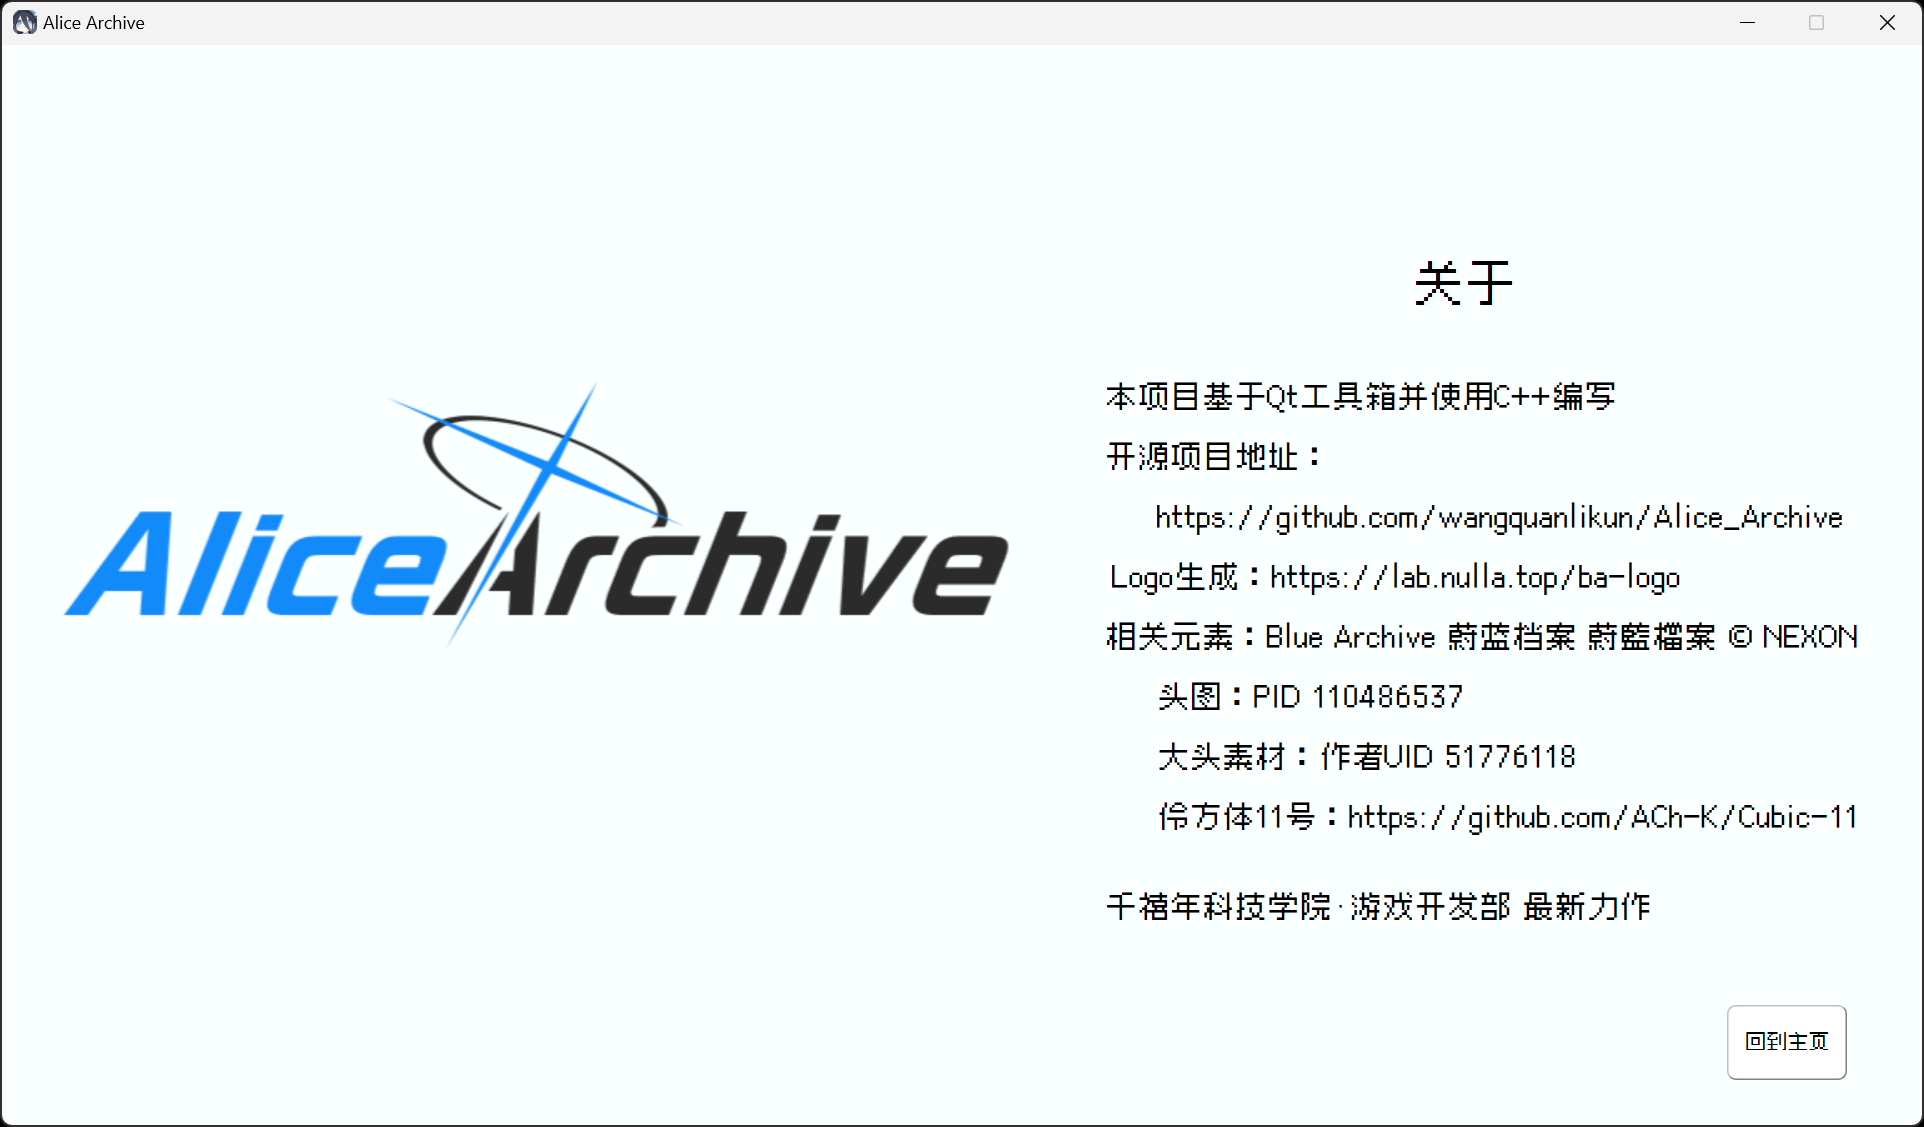
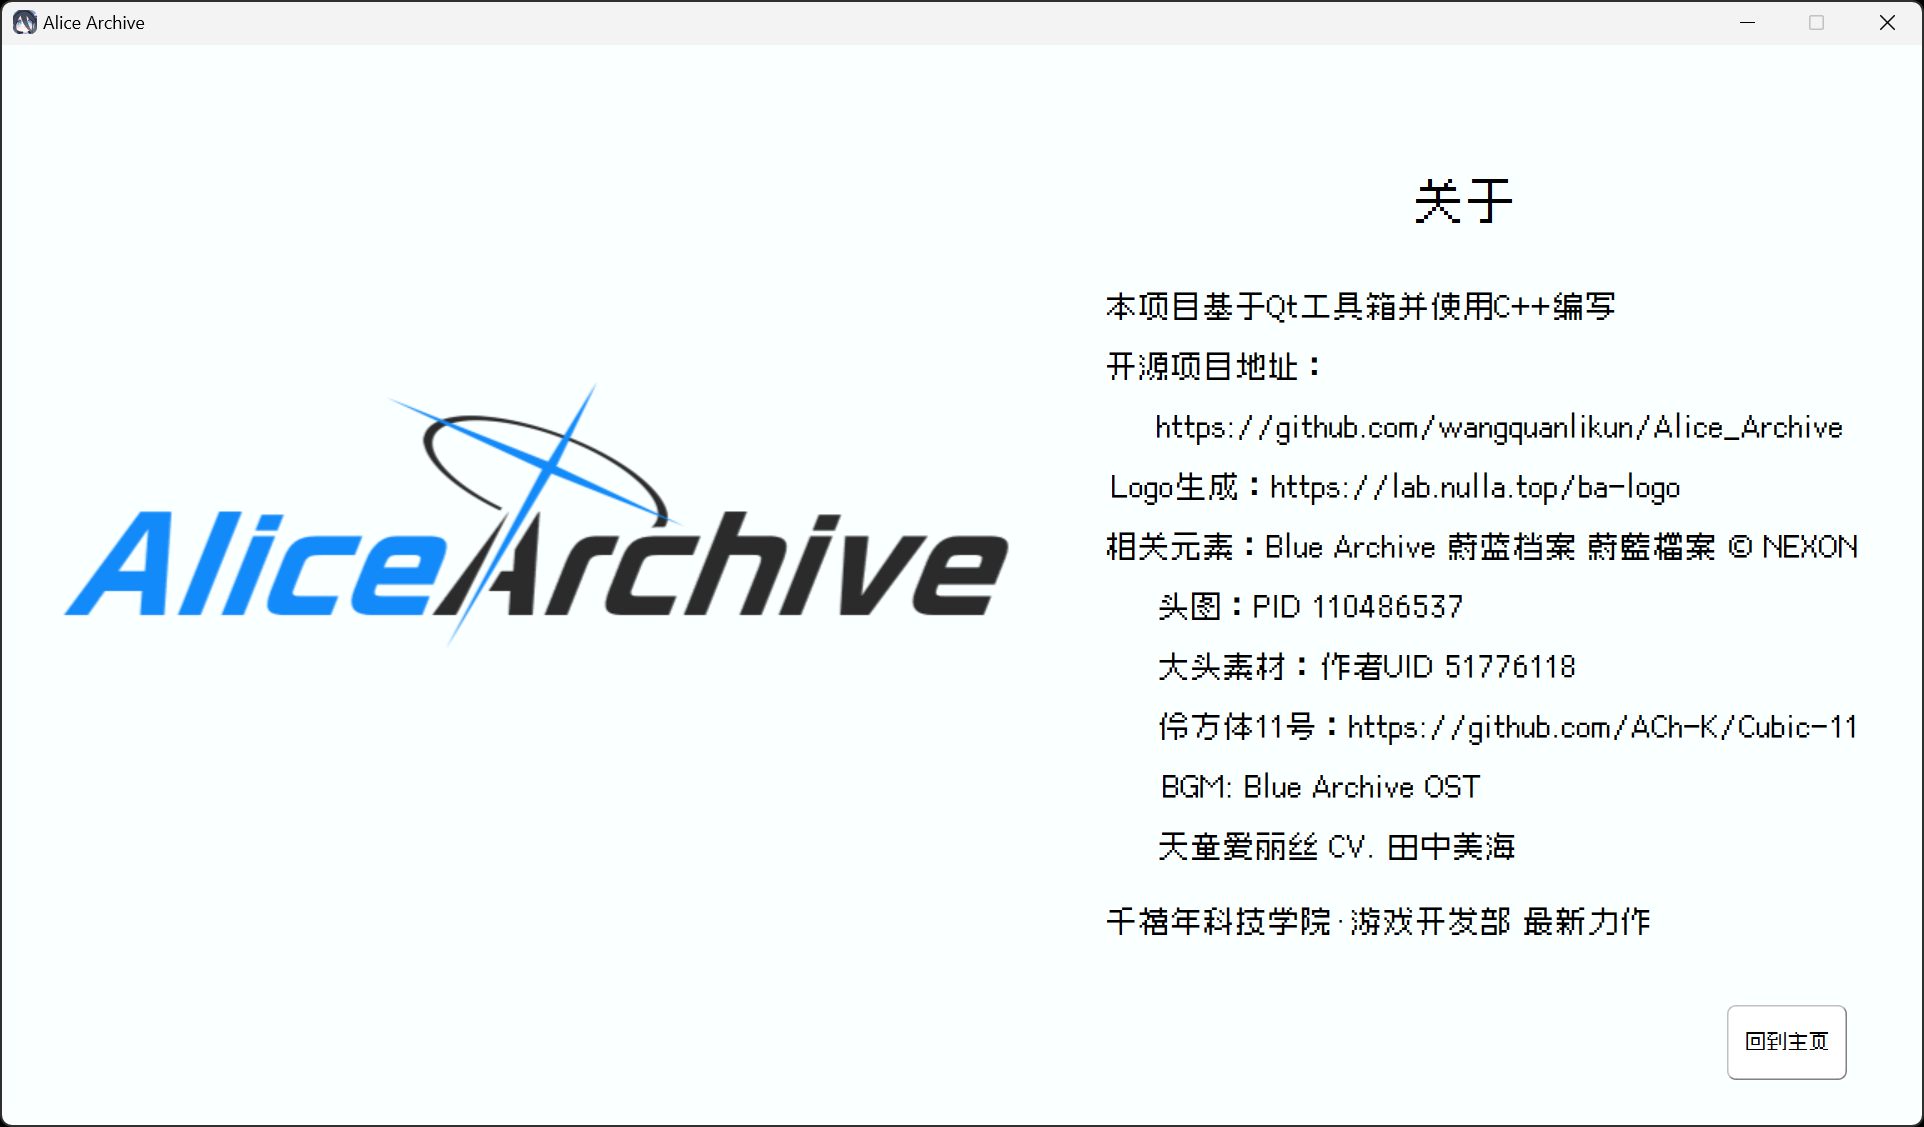
更新了README，与关于页面及截图

Changed region(s): [[0.5613, 0.3106, 0.9667, 0.8385], [0.5613, 0.2174, 0.842, 0.2795], [0.7173, 0.1553, 0.7796, 0.1863]]

diff --git a/README.md b/README.md
@@ -26,6 +26,10 @@
 2. 头图：PID [110486537](https://www.pixiv.net/artworks/110486537)  
 3. 大头素材：作者UID [51776118](https://www.pixiv.net/users/51776118)  
 4. 字体：伶方体11号 项目[地址](https://github.com/ACh-K/Cubic-11)  
+5. BGM: Blue Archive OST  
+   - Constant Moderato 主界面
+   - Mechanical JUNGLE 战斗界面
+6. 天童爱丽丝 CV. 田中美海  
 
 如有侵权行为，请与我联系，将会及时处理和回复，谢谢！
 
